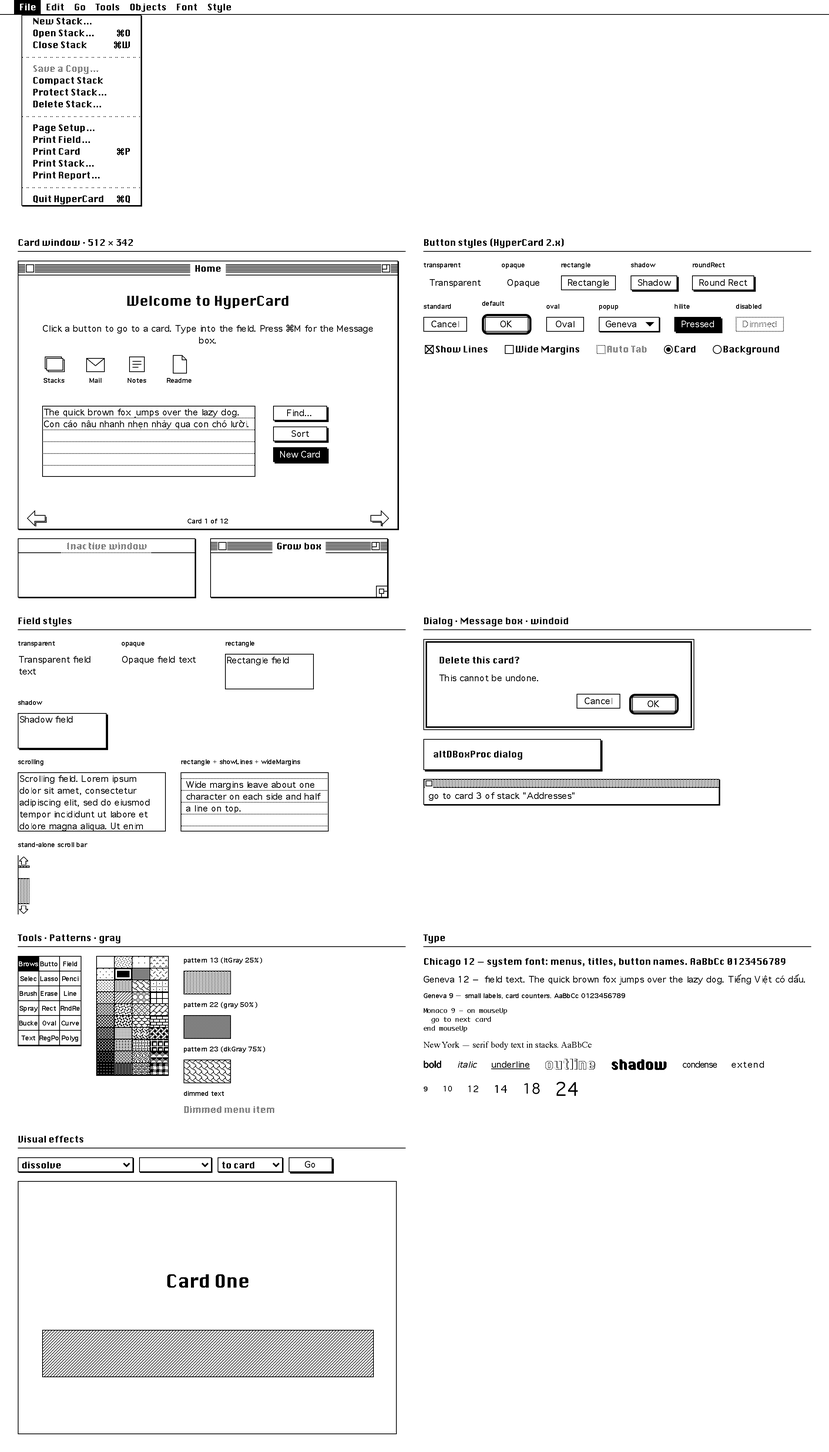
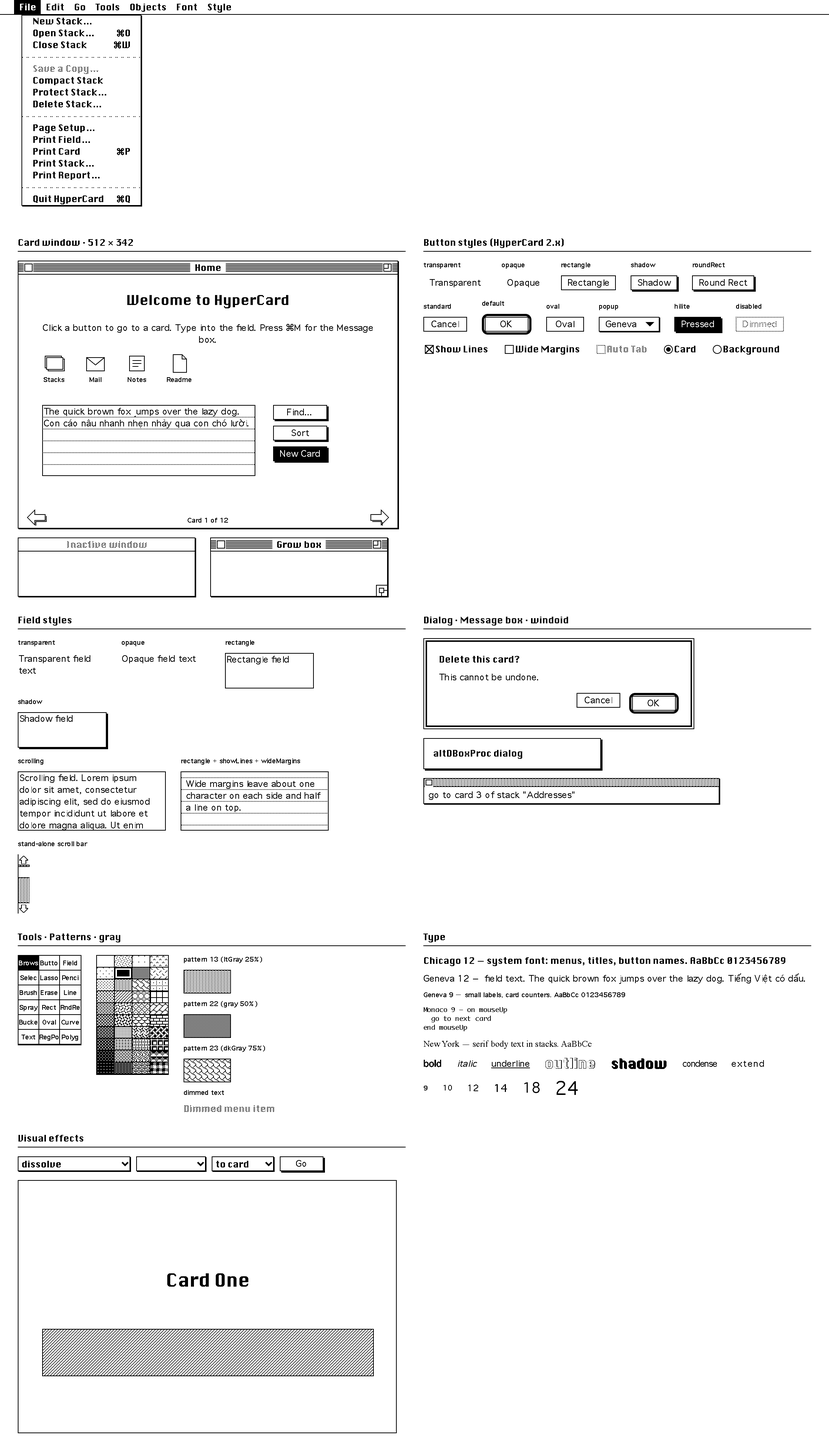
window: title bar on rows 0-18 of the frame, boxes 8 px in
The title bar now spans 19 rows counted from the window's top frame
line, with the line under it on row 18, as research/ already says
(StandardWDEF.a) and as System 6.0.8 draws it. Before, .hc-titlebar
was 19 px below the frame line, so the whole bar was one row too tall
and the stripes and boxes sat on rows 5-15.

- .hc-titlebar is titlebar-height minus the frame line (18 px)
- stripes and close/zoom boxes on rows 4-14
- close and zoom boxes 8 px of white in from the frame, 9 px from the
  frame line to the box (box-inset 10px -> 9px)
- the title's line box is 17 px, so its white backing no longer covers
  the line under the title bar (it did on both active and inactive
  windows); the baseline lands on row 13, the title-baseline token

Docs that said "19 + 1 px" now count from the frame line. design/*.dc.html
rebuilt with design/build.mjs; window.png and kitchen-sink.png
regenerated with npm run shots.

Assisted-by: Claude Opus 5.5 via Claude Code

diff --git a/design/Main.dc.html b/design/Main.dc.html
@@ -76,7 +76,7 @@
   --hc-menubar-submenu-arrow-height: 11px;
   --hc-menubar-submenu-arrow-right: 14px;
   --hc-menubar-submenu-arrow-top: 2px;
-  --hc-window-titlebar-height: 19px; /* Plus the 1 px line beneath = the 20 px of Inside Macintosh prose. */
+  --hc-window-titlebar-height: 19px; /* Rows 0-18 counted from the window's top frame line, the line above the content on row 18. .hc-titlebar sits under the frame line, so it is 18 px including that line. */
   --hc-window-stripe-first-row: 4px;
   --hc-window-stripe-pitch: 2px;
   --hc-window-stripe-count: 6;
@@ -85,7 +85,7 @@
   --hc-window-title-baseline: 13px;
   --hc-window-box-size: 11px; /* Close and zoom boxes: 11x11 hollow squares in a 13x13 cell. */
   --hc-window-box-top: 4px;
-  --hc-window-box-inset: 10px; /* From the frame to the box outline, both sides. */
+  --hc-window-box-inset: 9px; /* From the frame line to the box outline, both sides: 8 px of white inside the frame, then the box. */
   --hc-window-zoom-inner: 6px; /* Zoom box inner square, top-left. */
   --hc-window-grow-box: 15px;
   --hc-window-border: 1px;
@@ -433,20 +433,21 @@
 .hc-menu > li.hc-separator::before { content: ""; width: 100%; height: 1px; background: var(--hc-pattern-24); background-size: 8px 8px; } /* dotted */
 
 /* ---------- Window (documentProc / zoomDocProc) ---------- */
+/* Rows count from the window's top frame line (row 0): stripes and boxes on rows 4-14, the line under the title bar on row 18. */
 .hc-window {
   position: relative; display: flex; flex-direction: column;
   background: var(--hc-color-white); border: 1px solid var(--hc-color-black); box-shadow: 1px 1px 0 var(--hc-color-black);
 }
 .hc-titlebar {
-  position: relative; height: var(--hc-window-titlebar-height); border-bottom: 1px solid var(--hc-color-black);
-  background: var(--hc-color-white) repeating-linear-gradient(to bottom, var(--hc-color-black) 0 1px, transparent 1px 2px) 0 4px / 100% 11px no-repeat;
-  text-align: center; font: 12px/19px var(--hc-font-chicago); user-select: none; white-space: nowrap;
+  position: relative; height: calc(var(--hc-window-titlebar-height) - var(--hc-window-border)); border-bottom: 1px solid var(--hc-color-black);
+  background: var(--hc-color-white) repeating-linear-gradient(to bottom, var(--hc-color-black) 0 1px, transparent 1px 2px) 0 3px / 100% 11px no-repeat;
+  text-align: center; font: 12px/17px var(--hc-font-chicago); user-select: none; white-space: nowrap;
 }
 .hc-titlebar > .hc-title { display: inline-block; padding: 0 6px; background: var(--hc-color-white); max-width: calc(100% - 64px); overflow: hidden; text-overflow: clip; }
 .hc-titlebar > .hc-close, .hc-titlebar > .hc-zoom {
-  position: absolute; top: 3px; width: 13px; height: 13px; padding: 0; border: 0; background: var(--hc-color-white); cursor: default;
+  position: absolute; top: 2px; width: 13px; height: 13px; padding: 0; border: 0; background: var(--hc-color-white); cursor: default;
 }
-.hc-titlebar > .hc-close { left: 9px; } .hc-titlebar > .hc-zoom { right: 9px; }
+.hc-titlebar > .hc-close { left: 7px; } .hc-titlebar > .hc-zoom { right: 7px; }
 .hc-titlebar > .hc-close::before, .hc-titlebar > .hc-zoom::before { content: ""; position: absolute; inset: 1px; border: 1px solid var(--hc-color-black); }
 .hc-titlebar > .hc-zoom::after { content: ""; position: absolute; left: 1px; top: 1px; width: 7px; height: 7px; border-right: 1px solid var(--hc-color-black); border-bottom: 1px solid var(--hc-color-black); }
 .hc-titlebar > .hc-close:active::before, .hc-titlebar > .hc-zoom:active::before { background: var(--hc-color-black); }
@@ -622,7 +623,7 @@ a { color: #000; } a:hover { color: #000; }
     <div style="display: flex; flex-direction: column; gap: 16px; width: 372px;">
       <div class="ab-h">Five rules</div>
       <div style="display: flex; gap: 12px;"><div class="hc-chicago" style="width: 16px;">1</div><div><span class="hc-chicago">Two colors.</span> #000 and #fff. Gray is a pattern or a dither mask, never a hex value, never opacity.</div></div>
-      <div style="display: flex; gap: 12px;"><div class="hc-chicago" style="width: 16px;">2</div><div><span class="hc-chicago">Whole pixels.</span> Menu bar 20, title bar 19 + 1, button 20, OK 59, scroll bar 16, checkbox 12. Integers from Apple's Toolbox code.</div></div>
+      <div style="display: flex; gap: 12px;"><div class="hc-chicago" style="width: 16px;">2</div><div><span class="hc-chicago">Whole pixels.</span> Menu bar 20, title bar 19, button 20, OK 59, scroll bar 16, checkbox 12. Integers from Apple's Toolbox code.</div></div>
       <div style="display: flex; gap: 12px;"><div class="hc-chicago" style="width: 16px;">3</div><div><span class="hc-chicago">Hard edges.</span> 1 px black borders. Shadows are solid offsets: 1 px windows, 2 px shadow parts. No blur, no gradient, no anti-aliasing.</div></div>
       <div style="display: flex; gap: 12px;"><div class="hc-chicago" style="width: 16px;">4</div><div><span class="hc-chicago">Two voices of type.</span> Chicago 12 speaks for the system. Geneva 12 speaks for the user. Geneva 9 for small labels, Monaco 9 for scripts.</div></div>
       <div style="display: flex; gap: 12px;"><div class="hc-chicago" style="width: 16px;">5</div><div><span class="hc-chicago">Stepped motion.</span> Cards change with a visual effect drawn in discrete frames: dissolve, wipe, iris, checkerboard, venetian blinds, zoom. Nothing eases or fades.</div></div>

diff --git a/design/WindowsMenus.dc.html b/design/WindowsMenus.dc.html
@@ -76,7 +76,7 @@
   --hc-menubar-submenu-arrow-height: 11px;
   --hc-menubar-submenu-arrow-right: 14px;
   --hc-menubar-submenu-arrow-top: 2px;
-  --hc-window-titlebar-height: 19px; /* Plus the 1 px line beneath = the 20 px of Inside Macintosh prose. */
+  --hc-window-titlebar-height: 19px; /* Rows 0-18 counted from the window's top frame line, the line above the content on row 18. .hc-titlebar sits under the frame line, so it is 18 px including that line. */
   --hc-window-stripe-first-row: 4px;
   --hc-window-stripe-pitch: 2px;
   --hc-window-stripe-count: 6;
@@ -85,7 +85,7 @@
   --hc-window-title-baseline: 13px;
   --hc-window-box-size: 11px; /* Close and zoom boxes: 11x11 hollow squares in a 13x13 cell. */
   --hc-window-box-top: 4px;
-  --hc-window-box-inset: 10px; /* From the frame to the box outline, both sides. */
+  --hc-window-box-inset: 9px; /* From the frame line to the box outline, both sides: 8 px of white inside the frame, then the box. */
   --hc-window-zoom-inner: 6px; /* Zoom box inner square, top-left. */
   --hc-window-grow-box: 15px;
   --hc-window-border: 1px;
@@ -433,20 +433,21 @@
 .hc-menu > li.hc-separator::before { content: ""; width: 100%; height: 1px; background: var(--hc-pattern-24); background-size: 8px 8px; } /* dotted */
 
 /* ---------- Window (documentProc / zoomDocProc) ---------- */
+/* Rows count from the window's top frame line (row 0): stripes and boxes on rows 4-14, the line under the title bar on row 18. */
 .hc-window {
   position: relative; display: flex; flex-direction: column;
   background: var(--hc-color-white); border: 1px solid var(--hc-color-black); box-shadow: 1px 1px 0 var(--hc-color-black);
 }
 .hc-titlebar {
-  position: relative; height: var(--hc-window-titlebar-height); border-bottom: 1px solid var(--hc-color-black);
-  background: var(--hc-color-white) repeating-linear-gradient(to bottom, var(--hc-color-black) 0 1px, transparent 1px 2px) 0 4px / 100% 11px no-repeat;
-  text-align: center; font: 12px/19px var(--hc-font-chicago); user-select: none; white-space: nowrap;
+  position: relative; height: calc(var(--hc-window-titlebar-height) - var(--hc-window-border)); border-bottom: 1px solid var(--hc-color-black);
+  background: var(--hc-color-white) repeating-linear-gradient(to bottom, var(--hc-color-black) 0 1px, transparent 1px 2px) 0 3px / 100% 11px no-repeat;
+  text-align: center; font: 12px/17px var(--hc-font-chicago); user-select: none; white-space: nowrap;
 }
 .hc-titlebar > .hc-title { display: inline-block; padding: 0 6px; background: var(--hc-color-white); max-width: calc(100% - 64px); overflow: hidden; text-overflow: clip; }
 .hc-titlebar > .hc-close, .hc-titlebar > .hc-zoom {
-  position: absolute; top: 3px; width: 13px; height: 13px; padding: 0; border: 0; background: var(--hc-color-white); cursor: default;
+  position: absolute; top: 2px; width: 13px; height: 13px; padding: 0; border: 0; background: var(--hc-color-white); cursor: default;
 }
-.hc-titlebar > .hc-close { left: 9px; } .hc-titlebar > .hc-zoom { right: 9px; }
+.hc-titlebar > .hc-close { left: 7px; } .hc-titlebar > .hc-zoom { right: 7px; }
 .hc-titlebar > .hc-close::before, .hc-titlebar > .hc-zoom::before { content: ""; position: absolute; inset: 1px; border: 1px solid var(--hc-color-black); }
 .hc-titlebar > .hc-zoom::after { content: ""; position: absolute; left: 1px; top: 1px; width: 7px; height: 7px; border-right: 1px solid var(--hc-color-black); border-bottom: 1px solid var(--hc-color-black); }
 .hc-titlebar > .hc-close:active::before, .hc-titlebar > .hc-zoom:active::before { background: var(--hc-color-black); }
@@ -631,7 +632,7 @@ a { color: #000; } a:hover { color: #000; }
     <div class="hc-window" style="position: absolute; left: 232px; top: 112px; width: 320px; height: 200px;">
       <div class="hc-titlebar"><span class="hc-close"></span><span class="hc-title">Addresses</span><span class="hc-zoom"></span></div>
       <div class="hc-window-content">
-        <div class="hc-geneva" style="position: absolute; left: 12px; top: 12px; right: 12px;">Active document window (documentProc). Title bar 19 px with 1 px line, six stripes on rows 4, 6, 8, 10, 12, 14; 6 px of white either side of the title; 11 × 11 close and zoom boxes 10 px in.</div>
+        <div class="hc-geneva" style="position: absolute; left: 12px; top: 12px; right: 12px;">Active document window (documentProc). Title bar 19 px from the frame line to the line beneath, six stripes on rows 4, 6, 8, 10, 12, 14; 6 px of white either side of the title; 11 × 11 close and zoom boxes 9 px in.</div>
         <div class="hc-growbox"></div>
       </div>
     </div>

diff --git a/design/Controls.dc.html b/design/Controls.dc.html
@@ -76,7 +76,7 @@
   --hc-menubar-submenu-arrow-height: 11px;
   --hc-menubar-submenu-arrow-right: 14px;
   --hc-menubar-submenu-arrow-top: 2px;
-  --hc-window-titlebar-height: 19px; /* Plus the 1 px line beneath = the 20 px of Inside Macintosh prose. */
+  --hc-window-titlebar-height: 19px; /* Rows 0-18 counted from the window's top frame line, the line above the content on row 18. .hc-titlebar sits under the frame line, so it is 18 px including that line. */
   --hc-window-stripe-first-row: 4px;
   --hc-window-stripe-pitch: 2px;
   --hc-window-stripe-count: 6;
@@ -85,7 +85,7 @@
   --hc-window-title-baseline: 13px;
   --hc-window-box-size: 11px; /* Close and zoom boxes: 11x11 hollow squares in a 13x13 cell. */
   --hc-window-box-top: 4px;
-  --hc-window-box-inset: 10px; /* From the frame to the box outline, both sides. */
+  --hc-window-box-inset: 9px; /* From the frame line to the box outline, both sides: 8 px of white inside the frame, then the box. */
   --hc-window-zoom-inner: 6px; /* Zoom box inner square, top-left. */
   --hc-window-grow-box: 15px;
   --hc-window-border: 1px;
@@ -433,20 +433,21 @@
 .hc-menu > li.hc-separator::before { content: ""; width: 100%; height: 1px; background: var(--hc-pattern-24); background-size: 8px 8px; } /* dotted */
 
 /* ---------- Window (documentProc / zoomDocProc) ---------- */
+/* Rows count from the window's top frame line (row 0): stripes and boxes on rows 4-14, the line under the title bar on row 18. */
 .hc-window {
   position: relative; display: flex; flex-direction: column;
   background: var(--hc-color-white); border: 1px solid var(--hc-color-black); box-shadow: 1px 1px 0 var(--hc-color-black);
 }
 .hc-titlebar {
-  position: relative; height: var(--hc-window-titlebar-height); border-bottom: 1px solid var(--hc-color-black);
-  background: var(--hc-color-white) repeating-linear-gradient(to bottom, var(--hc-color-black) 0 1px, transparent 1px 2px) 0 4px / 100% 11px no-repeat;
-  text-align: center; font: 12px/19px var(--hc-font-chicago); user-select: none; white-space: nowrap;
+  position: relative; height: calc(var(--hc-window-titlebar-height) - var(--hc-window-border)); border-bottom: 1px solid var(--hc-color-black);
+  background: var(--hc-color-white) repeating-linear-gradient(to bottom, var(--hc-color-black) 0 1px, transparent 1px 2px) 0 3px / 100% 11px no-repeat;
+  text-align: center; font: 12px/17px var(--hc-font-chicago); user-select: none; white-space: nowrap;
 }
 .hc-titlebar > .hc-title { display: inline-block; padding: 0 6px; background: var(--hc-color-white); max-width: calc(100% - 64px); overflow: hidden; text-overflow: clip; }
 .hc-titlebar > .hc-close, .hc-titlebar > .hc-zoom {
-  position: absolute; top: 3px; width: 13px; height: 13px; padding: 0; border: 0; background: var(--hc-color-white); cursor: default;
+  position: absolute; top: 2px; width: 13px; height: 13px; padding: 0; border: 0; background: var(--hc-color-white); cursor: default;
 }
-.hc-titlebar > .hc-close { left: 9px; } .hc-titlebar > .hc-zoom { right: 9px; }
+.hc-titlebar > .hc-close { left: 7px; } .hc-titlebar > .hc-zoom { right: 7px; }
 .hc-titlebar > .hc-close::before, .hc-titlebar > .hc-zoom::before { content: ""; position: absolute; inset: 1px; border: 1px solid var(--hc-color-black); }
 .hc-titlebar > .hc-zoom::after { content: ""; position: absolute; left: 1px; top: 1px; width: 7px; height: 7px; border-right: 1px solid var(--hc-color-black); border-bottom: 1px solid var(--hc-color-black); }
 .hc-titlebar > .hc-close:active::before, .hc-titlebar > .hc-zoom:active::before { background: var(--hc-color-black); }

diff --git a/design/Patterns.dc.html b/design/Patterns.dc.html
@@ -76,7 +76,7 @@
   --hc-menubar-submenu-arrow-height: 11px;
   --hc-menubar-submenu-arrow-right: 14px;
   --hc-menubar-submenu-arrow-top: 2px;
-  --hc-window-titlebar-height: 19px; /* Plus the 1 px line beneath = the 20 px of Inside Macintosh prose. */
+  --hc-window-titlebar-height: 19px; /* Rows 0-18 counted from the window's top frame line, the line above the content on row 18. .hc-titlebar sits under the frame line, so it is 18 px including that line. */
   --hc-window-stripe-first-row: 4px;
   --hc-window-stripe-pitch: 2px;
   --hc-window-stripe-count: 6;
@@ -85,7 +85,7 @@
   --hc-window-title-baseline: 13px;
   --hc-window-box-size: 11px; /* Close and zoom boxes: 11x11 hollow squares in a 13x13 cell. */
   --hc-window-box-top: 4px;
-  --hc-window-box-inset: 10px; /* From the frame to the box outline, both sides. */
+  --hc-window-box-inset: 9px; /* From the frame line to the box outline, both sides: 8 px of white inside the frame, then the box. */
   --hc-window-zoom-inner: 6px; /* Zoom box inner square, top-left. */
   --hc-window-grow-box: 15px;
   --hc-window-border: 1px;
@@ -433,20 +433,21 @@
 .hc-menu > li.hc-separator::before { content: ""; width: 100%; height: 1px; background: var(--hc-pattern-24); background-size: 8px 8px; } /* dotted */
 
 /* ---------- Window (documentProc / zoomDocProc) ---------- */
+/* Rows count from the window's top frame line (row 0): stripes and boxes on rows 4-14, the line under the title bar on row 18. */
 .hc-window {
   position: relative; display: flex; flex-direction: column;
   background: var(--hc-color-white); border: 1px solid var(--hc-color-black); box-shadow: 1px 1px 0 var(--hc-color-black);
 }
 .hc-titlebar {
-  position: relative; height: var(--hc-window-titlebar-height); border-bottom: 1px solid var(--hc-color-black);
-  background: var(--hc-color-white) repeating-linear-gradient(to bottom, var(--hc-color-black) 0 1px, transparent 1px 2px) 0 4px / 100% 11px no-repeat;
-  text-align: center; font: 12px/19px var(--hc-font-chicago); user-select: none; white-space: nowrap;
+  position: relative; height: calc(var(--hc-window-titlebar-height) - var(--hc-window-border)); border-bottom: 1px solid var(--hc-color-black);
+  background: var(--hc-color-white) repeating-linear-gradient(to bottom, var(--hc-color-black) 0 1px, transparent 1px 2px) 0 3px / 100% 11px no-repeat;
+  text-align: center; font: 12px/17px var(--hc-font-chicago); user-select: none; white-space: nowrap;
 }
 .hc-titlebar > .hc-title { display: inline-block; padding: 0 6px; background: var(--hc-color-white); max-width: calc(100% - 64px); overflow: hidden; text-overflow: clip; }
 .hc-titlebar > .hc-close, .hc-titlebar > .hc-zoom {
-  position: absolute; top: 3px; width: 13px; height: 13px; padding: 0; border: 0; background: var(--hc-color-white); cursor: default;
+  position: absolute; top: 2px; width: 13px; height: 13px; padding: 0; border: 0; background: var(--hc-color-white); cursor: default;
 }
-.hc-titlebar > .hc-close { left: 9px; } .hc-titlebar > .hc-zoom { right: 9px; }
+.hc-titlebar > .hc-close { left: 7px; } .hc-titlebar > .hc-zoom { right: 7px; }
 .hc-titlebar > .hc-close::before, .hc-titlebar > .hc-zoom::before { content: ""; position: absolute; inset: 1px; border: 1px solid var(--hc-color-black); }
 .hc-titlebar > .hc-zoom::after { content: ""; position: absolute; left: 1px; top: 1px; width: 7px; height: 7px; border-right: 1px solid var(--hc-color-black); border-bottom: 1px solid var(--hc-color-black); }
 .hc-titlebar > .hc-close:active::before, .hc-titlebar > .hc-zoom:active::before { background: var(--hc-color-black); }

diff --git a/design/Typography.dc.html b/design/Typography.dc.html
@@ -76,7 +76,7 @@
   --hc-menubar-submenu-arrow-height: 11px;
   --hc-menubar-submenu-arrow-right: 14px;
   --hc-menubar-submenu-arrow-top: 2px;
-  --hc-window-titlebar-height: 19px; /* Plus the 1 px line beneath = the 20 px of Inside Macintosh prose. */
+  --hc-window-titlebar-height: 19px; /* Rows 0-18 counted from the window's top frame line, the line above the content on row 18. .hc-titlebar sits under the frame line, so it is 18 px including that line. */
   --hc-window-stripe-first-row: 4px;
   --hc-window-stripe-pitch: 2px;
   --hc-window-stripe-count: 6;
@@ -85,7 +85,7 @@
   --hc-window-title-baseline: 13px;
   --hc-window-box-size: 11px; /* Close and zoom boxes: 11x11 hollow squares in a 13x13 cell. */
   --hc-window-box-top: 4px;
-  --hc-window-box-inset: 10px; /* From the frame to the box outline, both sides. */
+  --hc-window-box-inset: 9px; /* From the frame line to the box outline, both sides: 8 px of white inside the frame, then the box. */
   --hc-window-zoom-inner: 6px; /* Zoom box inner square, top-left. */
   --hc-window-grow-box: 15px;
   --hc-window-border: 1px;
@@ -433,20 +433,21 @@
 .hc-menu > li.hc-separator::before { content: ""; width: 100%; height: 1px; background: var(--hc-pattern-24); background-size: 8px 8px; } /* dotted */
 
 /* ---------- Window (documentProc / zoomDocProc) ---------- */
+/* Rows count from the window's top frame line (row 0): stripes and boxes on rows 4-14, the line under the title bar on row 18. */
 .hc-window {
   position: relative; display: flex; flex-direction: column;
   background: var(--hc-color-white); border: 1px solid var(--hc-color-black); box-shadow: 1px 1px 0 var(--hc-color-black);
 }
 .hc-titlebar {
-  position: relative; height: var(--hc-window-titlebar-height); border-bottom: 1px solid var(--hc-color-black);
-  background: var(--hc-color-white) repeating-linear-gradient(to bottom, var(--hc-color-black) 0 1px, transparent 1px 2px) 0 4px / 100% 11px no-repeat;
-  text-align: center; font: 12px/19px var(--hc-font-chicago); user-select: none; white-space: nowrap;
+  position: relative; height: calc(var(--hc-window-titlebar-height) - var(--hc-window-border)); border-bottom: 1px solid var(--hc-color-black);
+  background: var(--hc-color-white) repeating-linear-gradient(to bottom, var(--hc-color-black) 0 1px, transparent 1px 2px) 0 3px / 100% 11px no-repeat;
+  text-align: center; font: 12px/17px var(--hc-font-chicago); user-select: none; white-space: nowrap;
 }
 .hc-titlebar > .hc-title { display: inline-block; padding: 0 6px; background: var(--hc-color-white); max-width: calc(100% - 64px); overflow: hidden; text-overflow: clip; }
 .hc-titlebar > .hc-close, .hc-titlebar > .hc-zoom {
-  position: absolute; top: 3px; width: 13px; height: 13px; padding: 0; border: 0; background: var(--hc-color-white); cursor: default;
+  position: absolute; top: 2px; width: 13px; height: 13px; padding: 0; border: 0; background: var(--hc-color-white); cursor: default;
 }
-.hc-titlebar > .hc-close { left: 9px; } .hc-titlebar > .hc-zoom { right: 9px; }
+.hc-titlebar > .hc-close { left: 7px; } .hc-titlebar > .hc-zoom { right: 7px; }
 .hc-titlebar > .hc-close::before, .hc-titlebar > .hc-zoom::before { content: ""; position: absolute; inset: 1px; border: 1px solid var(--hc-color-black); }
 .hc-titlebar > .hc-zoom::after { content: ""; position: absolute; left: 1px; top: 1px; width: 7px; height: 7px; border-right: 1px solid var(--hc-color-black); border-bottom: 1px solid var(--hc-color-black); }
 .hc-titlebar > .hc-close:active::before, .hc-titlebar > .hc-zoom:active::before { background: var(--hc-color-black); }

diff --git a/design/VisualEffects.dc.html b/design/VisualEffects.dc.html
@@ -76,7 +76,7 @@
   --hc-menubar-submenu-arrow-height: 11px;
   --hc-menubar-submenu-arrow-right: 14px;
   --hc-menubar-submenu-arrow-top: 2px;
-  --hc-window-titlebar-height: 19px; /* Plus the 1 px line beneath = the 20 px of Inside Macintosh prose. */
+  --hc-window-titlebar-height: 19px; /* Rows 0-18 counted from the window's top frame line, the line above the content on row 18. .hc-titlebar sits under the frame line, so it is 18 px including that line. */
   --hc-window-stripe-first-row: 4px;
   --hc-window-stripe-pitch: 2px;
   --hc-window-stripe-count: 6;
@@ -85,7 +85,7 @@
   --hc-window-title-baseline: 13px;
   --hc-window-box-size: 11px; /* Close and zoom boxes: 11x11 hollow squares in a 13x13 cell. */
   --hc-window-box-top: 4px;
-  --hc-window-box-inset: 10px; /* From the frame to the box outline, both sides. */
+  --hc-window-box-inset: 9px; /* From the frame line to the box outline, both sides: 8 px of white inside the frame, then the box. */
   --hc-window-zoom-inner: 6px; /* Zoom box inner square, top-left. */
   --hc-window-grow-box: 15px;
   --hc-window-border: 1px;
@@ -433,20 +433,21 @@
 .hc-menu > li.hc-separator::before { content: ""; width: 100%; height: 1px; background: var(--hc-pattern-24); background-size: 8px 8px; } /* dotted */
 
 /* ---------- Window (documentProc / zoomDocProc) ---------- */
+/* Rows count from the window's top frame line (row 0): stripes and boxes on rows 4-14, the line under the title bar on row 18. */
 .hc-window {
   position: relative; display: flex; flex-direction: column;
   background: var(--hc-color-white); border: 1px solid var(--hc-color-black); box-shadow: 1px 1px 0 var(--hc-color-black);
 }
 .hc-titlebar {
-  position: relative; height: var(--hc-window-titlebar-height); border-bottom: 1px solid var(--hc-color-black);
-  background: var(--hc-color-white) repeating-linear-gradient(to bottom, var(--hc-color-black) 0 1px, transparent 1px 2px) 0 4px / 100% 11px no-repeat;
-  text-align: center; font: 12px/19px var(--hc-font-chicago); user-select: none; white-space: nowrap;
+  position: relative; height: calc(var(--hc-window-titlebar-height) - var(--hc-window-border)); border-bottom: 1px solid var(--hc-color-black);
+  background: var(--hc-color-white) repeating-linear-gradient(to bottom, var(--hc-color-black) 0 1px, transparent 1px 2px) 0 3px / 100% 11px no-repeat;
+  text-align: center; font: 12px/17px var(--hc-font-chicago); user-select: none; white-space: nowrap;
 }
 .hc-titlebar > .hc-title { display: inline-block; padding: 0 6px; background: var(--hc-color-white); max-width: calc(100% - 64px); overflow: hidden; text-overflow: clip; }
 .hc-titlebar > .hc-close, .hc-titlebar > .hc-zoom {
-  position: absolute; top: 3px; width: 13px; height: 13px; padding: 0; border: 0; background: var(--hc-color-white); cursor: default;
+  position: absolute; top: 2px; width: 13px; height: 13px; padding: 0; border: 0; background: var(--hc-color-white); cursor: default;
 }
-.hc-titlebar > .hc-close { left: 9px; } .hc-titlebar > .hc-zoom { right: 9px; }
+.hc-titlebar > .hc-close { left: 7px; } .hc-titlebar > .hc-zoom { right: 7px; }
 .hc-titlebar > .hc-close::before, .hc-titlebar > .hc-zoom::before { content: ""; position: absolute; inset: 1px; border: 1px solid var(--hc-color-black); }
 .hc-titlebar > .hc-zoom::after { content: ""; position: absolute; left: 1px; top: 1px; width: 7px; height: 7px; border-right: 1px solid var(--hc-color-black); border-bottom: 1px solid var(--hc-color-black); }
 .hc-titlebar > .hc-close:active::before, .hc-titlebar > .hc-zoom:active::before { background: var(--hc-color-black); }

diff --git a/css/hypercard.css b/css/hypercard.css
@@ -56,20 +56,21 @@
 .hc-menu > li.hc-separator::before { content: ""; width: 100%; height: 1px; background: var(--hc-pattern-24); background-size: 8px 8px; } /* dotted */
 
 /* ---------- Window (documentProc / zoomDocProc) ---------- */
+/* Rows count from the window's top frame line (row 0): stripes and boxes on rows 4-14, the line under the title bar on row 18. */
 .hc-window {
   position: relative; display: flex; flex-direction: column;
   background: var(--hc-color-white); border: 1px solid var(--hc-color-black); box-shadow: 1px 1px 0 var(--hc-color-black);
 }
 .hc-titlebar {
-  position: relative; height: var(--hc-window-titlebar-height); border-bottom: 1px solid var(--hc-color-black);
-  background: var(--hc-color-white) repeating-linear-gradient(to bottom, var(--hc-color-black) 0 1px, transparent 1px 2px) 0 4px / 100% 11px no-repeat;
-  text-align: center; font: 12px/19px var(--hc-font-chicago); user-select: none; white-space: nowrap;
+  position: relative; height: calc(var(--hc-window-titlebar-height) - var(--hc-window-border)); border-bottom: 1px solid var(--hc-color-black);
+  background: var(--hc-color-white) repeating-linear-gradient(to bottom, var(--hc-color-black) 0 1px, transparent 1px 2px) 0 3px / 100% 11px no-repeat;
+  text-align: center; font: 12px/17px var(--hc-font-chicago); user-select: none; white-space: nowrap;
 }
 .hc-titlebar > .hc-title { display: inline-block; padding: 0 6px; background: var(--hc-color-white); max-width: calc(100% - 64px); overflow: hidden; text-overflow: clip; }
 .hc-titlebar > .hc-close, .hc-titlebar > .hc-zoom {
-  position: absolute; top: 3px; width: 13px; height: 13px; padding: 0; border: 0; background: var(--hc-color-white); cursor: default;
+  position: absolute; top: 2px; width: 13px; height: 13px; padding: 0; border: 0; background: var(--hc-color-white); cursor: default;
 }
-.hc-titlebar > .hc-close { left: 9px; } .hc-titlebar > .hc-zoom { right: 9px; }
+.hc-titlebar > .hc-close { left: 7px; } .hc-titlebar > .hc-zoom { right: 7px; }
 .hc-titlebar > .hc-close::before, .hc-titlebar > .hc-zoom::before { content: ""; position: absolute; inset: 1px; border: 1px solid var(--hc-color-black); }
 .hc-titlebar > .hc-zoom::after { content: ""; position: absolute; left: 1px; top: 1px; width: 7px; height: 7px; border-right: 1px solid var(--hc-color-black); border-bottom: 1px solid var(--hc-color-black); }
 .hc-titlebar > .hc-close:active::before, .hc-titlebar > .hc-zoom:active::before { background: var(--hc-color-black); }

diff --git a/design/src/Main.html b/design/src/Main.html
@@ -13,7 +13,7 @@
     <div style="display: flex; flex-direction: column; gap: 16px; width: 372px;">
       <div class="ab-h">Five rules</div>
       <div style="display: flex; gap: 12px;"><div class="hc-chicago" style="width: 16px;">1</div><div><span class="hc-chicago">Two colors.</span> #000 and #fff. Gray is a pattern or a dither mask, never a hex value, never opacity.</div></div>
-      <div style="display: flex; gap: 12px;"><div class="hc-chicago" style="width: 16px;">2</div><div><span class="hc-chicago">Whole pixels.</span> Menu bar 20, title bar 19 + 1, button 20, OK 59, scroll bar 16, checkbox 12. Integers from Apple's Toolbox code.</div></div>
+      <div style="display: flex; gap: 12px;"><div class="hc-chicago" style="width: 16px;">2</div><div><span class="hc-chicago">Whole pixels.</span> Menu bar 20, title bar 19, button 20, OK 59, scroll bar 16, checkbox 12. Integers from Apple's Toolbox code.</div></div>
       <div style="display: flex; gap: 12px;"><div class="hc-chicago" style="width: 16px;">3</div><div><span class="hc-chicago">Hard edges.</span> 1 px black borders. Shadows are solid offsets: 1 px windows, 2 px shadow parts. No blur, no gradient, no anti-aliasing.</div></div>
       <div style="display: flex; gap: 12px;"><div class="hc-chicago" style="width: 16px;">4</div><div><span class="hc-chicago">Two voices of type.</span> Chicago 12 speaks for the system. Geneva 12 speaks for the user. Geneva 9 for small labels, Monaco 9 for scripts.</div></div>
       <div style="display: flex; gap: 12px;"><div class="hc-chicago" style="width: 16px;">5</div><div><span class="hc-chicago">Stepped motion.</span> Cards change with a visual effect drawn in discrete frames: dissolve, wipe, iris, checkerboard, venetian blinds, zoom. Nothing eases or fades.</div></div>

diff --git a/css/tokens.css b/css/tokens.css
@@ -66,7 +66,7 @@
   --hc-menubar-submenu-arrow-height: 11px;
   --hc-menubar-submenu-arrow-right: 14px;
   --hc-menubar-submenu-arrow-top: 2px;
-  --hc-window-titlebar-height: 19px; /* Plus the 1 px line beneath = the 20 px of Inside Macintosh prose. */
+  --hc-window-titlebar-height: 19px; /* Rows 0-18 counted from the window's top frame line, the line above the content on row 18. .hc-titlebar sits under the frame line, so it is 18 px including that line. */
   --hc-window-stripe-first-row: 4px;
   --hc-window-stripe-pitch: 2px;
   --hc-window-stripe-count: 6;
@@ -75,7 +75,7 @@
   --hc-window-title-baseline: 13px;
   --hc-window-box-size: 11px; /* Close and zoom boxes: 11x11 hollow squares in a 13x13 cell. */
   --hc-window-box-top: 4px;
-  --hc-window-box-inset: 10px; /* From the frame to the box outline, both sides. */
+  --hc-window-box-inset: 9px; /* From the frame line to the box outline, both sides: 8 px of white inside the frame, then the box. */
   --hc-window-zoom-inner: 6px; /* Zoom box inner square, top-left. */
   --hc-window-grow-box: 15px;
   --hc-window-border: 1px;

diff --git a/design/src/WindowsMenus.html b/design/src/WindowsMenus.html
@@ -22,7 +22,7 @@
     <div class="hc-window" style="position: absolute; left: 232px; top: 112px; width: 320px; height: 200px;">
       <div class="hc-titlebar"><span class="hc-close"></span><span class="hc-title">Addresses</span><span class="hc-zoom"></span></div>
       <div class="hc-window-content">
-        <div class="hc-geneva" style="position: absolute; left: 12px; top: 12px; right: 12px;">Active document window (documentProc). Title bar 19 px with 1 px line, six stripes on rows 4, 6, 8, 10, 12, 14; 6 px of white either side of the title; 11 × 11 close and zoom boxes 10 px in.</div>
+        <div class="hc-geneva" style="position: absolute; left: 12px; top: 12px; right: 12px;">Active document window (documentProc). Title bar 19 px from the frame line to the line beneath, six stripes on rows 4, 6, 8, 10, 12, 14; 6 px of white either side of the title; 11 × 11 close and zoom boxes 9 px in.</div>
         <div class="hc-growbox"></div>
       </div>
     </div>

diff --git a/README.md b/README.md
@@ -101,7 +101,7 @@ npm run shots   # re-screenshot examples/index.html into docs/images (uses your 
 
 ## Scope and honesty
 
-- Sizes come from Apple's code where it exists (menu bar 20 px, title bar 19 + 1 px, buttons 20 px, OK/Cancel 59 px, scroll bar 16 px, dialog border 1/2/2/3, checkbox 12 px, default ring 3 px + 1 px gap). Where they come from screenshots or prose, the token description says *medium* or *low* confidence.
+- Sizes come from Apple's code where it exists (menu bar 20 px, title bar 19 px from the frame line to the line beneath, buttons 20 px, OK/Cancel 59 px, scroll bar 16 px, dialog border 1/2/2/3, checkbox 12 px, default ring 3 px + 1 px gap). Where they come from screenshots or prose, the token description says *medium* or *low* confidence.
 - HyperCard's Tools palette icons and the 32×32 button icons are not included; they are Apple bitmaps. The palette layout, cell sizes and icon slot are.
 - Effects are reconstructed from Apple's descriptions and screen recordings, not from the original code. Speeds (very slow 2400 ms … very fast 150 ms) are calibrated by eye to a Mac Plus and are tunable via `options.speeds`.
 - Chromium only honors `-webkit-font-smoothing: none` on macOS. On other platforms text will be anti-aliased unless you ship the bitmap-style recreations.

diff --git a/docs/principles.md b/docs/principles.md
@@ -15,7 +15,7 @@ In CSS this means two colors, `-webkit-font-smoothing: none`, `image-rendering: 
 
 ## 2. Whole pixels at 72 dpi
 
-Apple's Toolbox draws with integer coordinates, and the metrics are exact: a 20 px menu bar (19 white rows and 1 black line), a 19 px title bar plus its 1 px bottom line, a 20 px push button, a 16 px scroll bar, a 59 px OK button, a 12 px checkbox whose label starts 16 px in. `tokens/hypercard.tokens.json` records each of these with its source. A modern 4 or 8 pt spacing grid is not HyperCard; use the numbers.
+Apple's Toolbox draws with integer coordinates, and the metrics are exact: a 20 px menu bar (19 white rows and 1 black line), a 19 px title bar from the frame line to the line beneath it, a 20 px push button, a 16 px scroll bar, a 59 px OK button, a 12 px checkbox whose label starts 16 px in. `tokens/hypercard.tokens.json` records each of these with its source. A modern 4 or 8 pt spacing grid is not HyperCard; use the numbers.
 
 ## 3. Two voices of type
 
